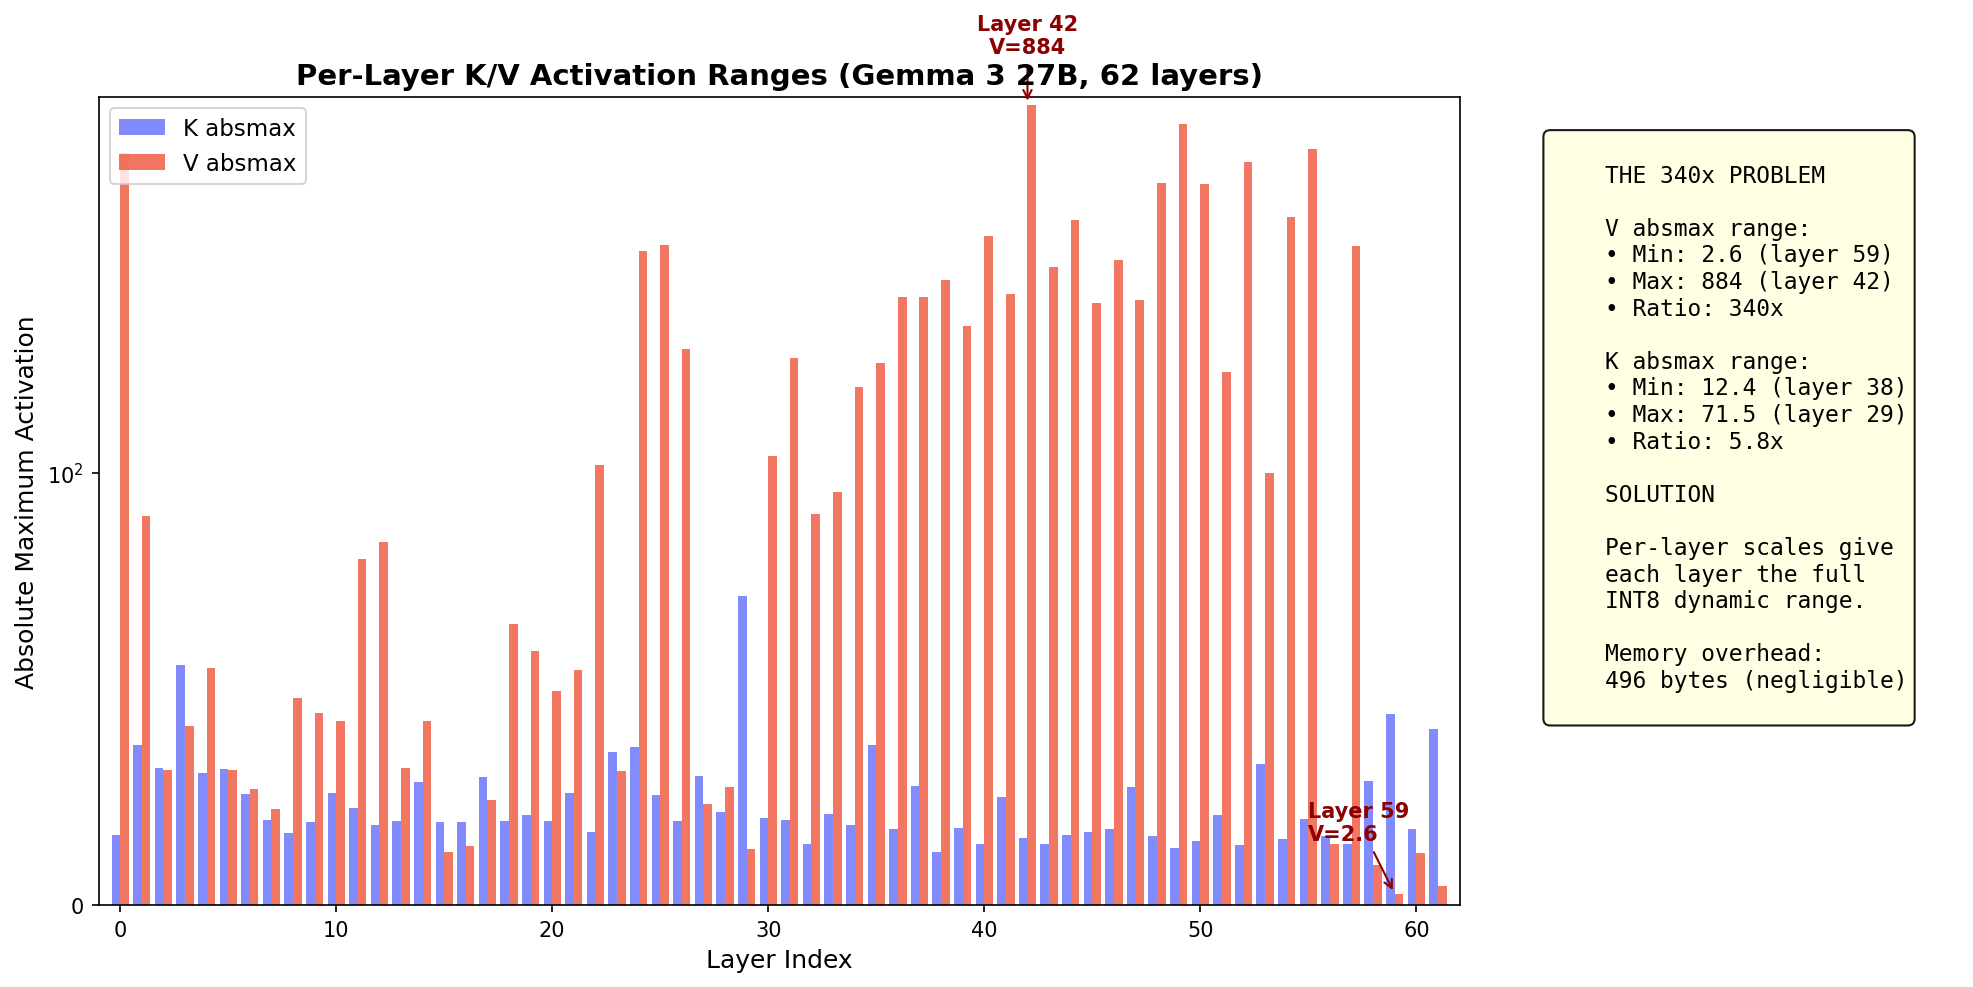
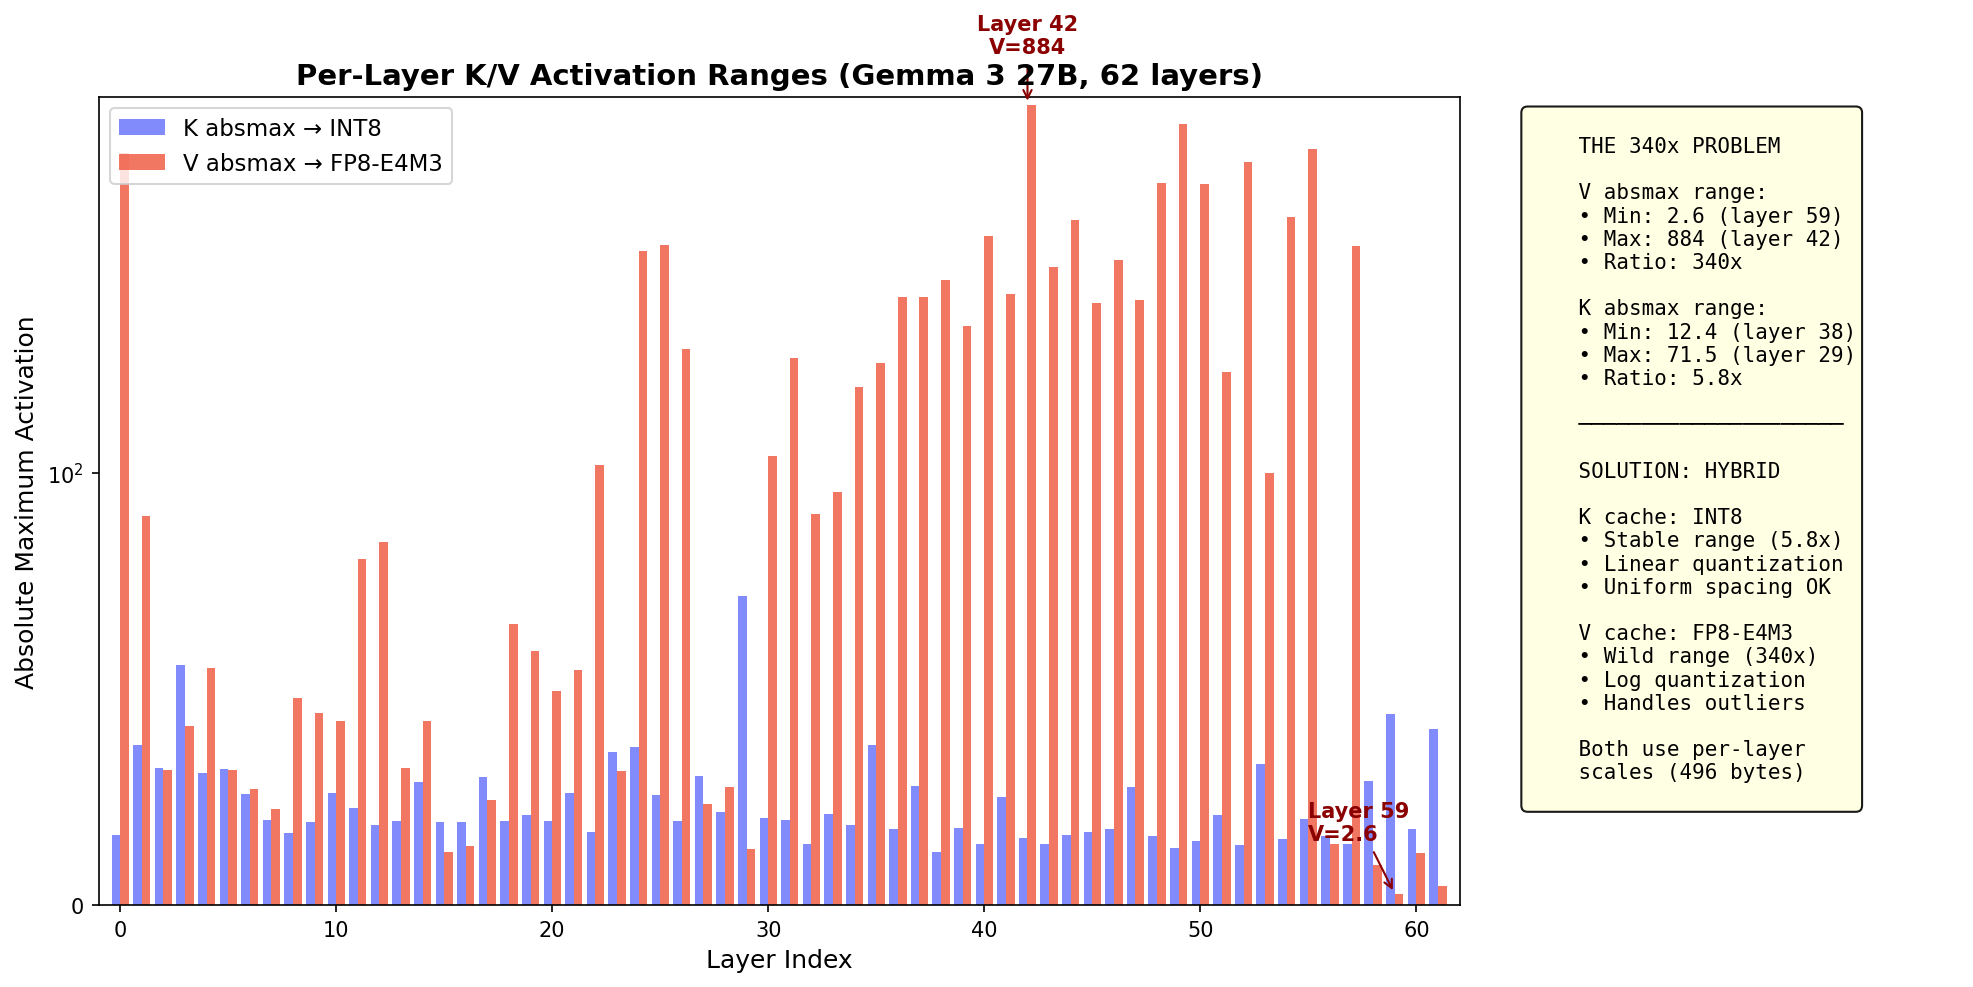
Update hero plot: show INT8-K + FP8-V hybrid solution

Changed region(s): [[0.7729, 0.0912, 0.9894, 0.8207], [0.1546, 0.1216, 0.2164, 0.1824]]

diff --git a/scripts/plot_per_layer_scales.py b/scripts/plot_per_layer_scales.py
@@ -261,9 +261,9 @@ def plot_hero_comparison():
     x = data['layers']
     width = 0.4
 
-    bars_k = ax_main.bar(x - width/2, data['k_absmax'], width, label='K absmax',
+    bars_k = ax_main.bar(x - width/2, data['k_absmax'], width, label='K absmax → INT8',
                          color='#636EFA', alpha=0.8)
-    bars_v = ax_main.bar(x + width/2, data['v_absmax'], width, label='V absmax',
+    bars_v = ax_main.bar(x + width/2, data['v_absmax'], width, label='V absmax → FP8-E4M3',
                          color='#EF553B', alpha=0.8)
 
     ax_main.set_xlabel('Layer Index', fontsize=12)
@@ -303,18 +303,26 @@ def plot_hero_comparison():
     • Max: 71.5 (layer 29)
     • Ratio: 5.8x
 
-    SOLUTION
+    ─────────────────────
 
-    Per-layer scales give
-    each layer the full
-    INT8 dynamic range.
+    SOLUTION: HYBRID
 
-    Memory overhead:
-    496 bytes (negligible)
+    K cache: INT8
+    • Stable range (5.8x)
+    • Linear quantization
+    • Uniform spacing OK
+
+    V cache: FP8-E4M3
+    • Wild range (340x)
+    • Log quantization
+    • Handles outliers
+
+    Both use per-layer
+    scales (496 bytes)
     """
 
-    ax_stats.text(0.1, 0.95, stats_text, transform=ax_stats.transAxes,
-                 fontsize=11, verticalalignment='top', fontfamily='monospace',
+    ax_stats.text(0.05, 0.98, stats_text, transform=ax_stats.transAxes,
+                 fontsize=10, verticalalignment='top', fontfamily='monospace',
                  bbox=dict(boxstyle='round', facecolor='lightyellow', alpha=0.9))
 
     plt.tight_layout()
